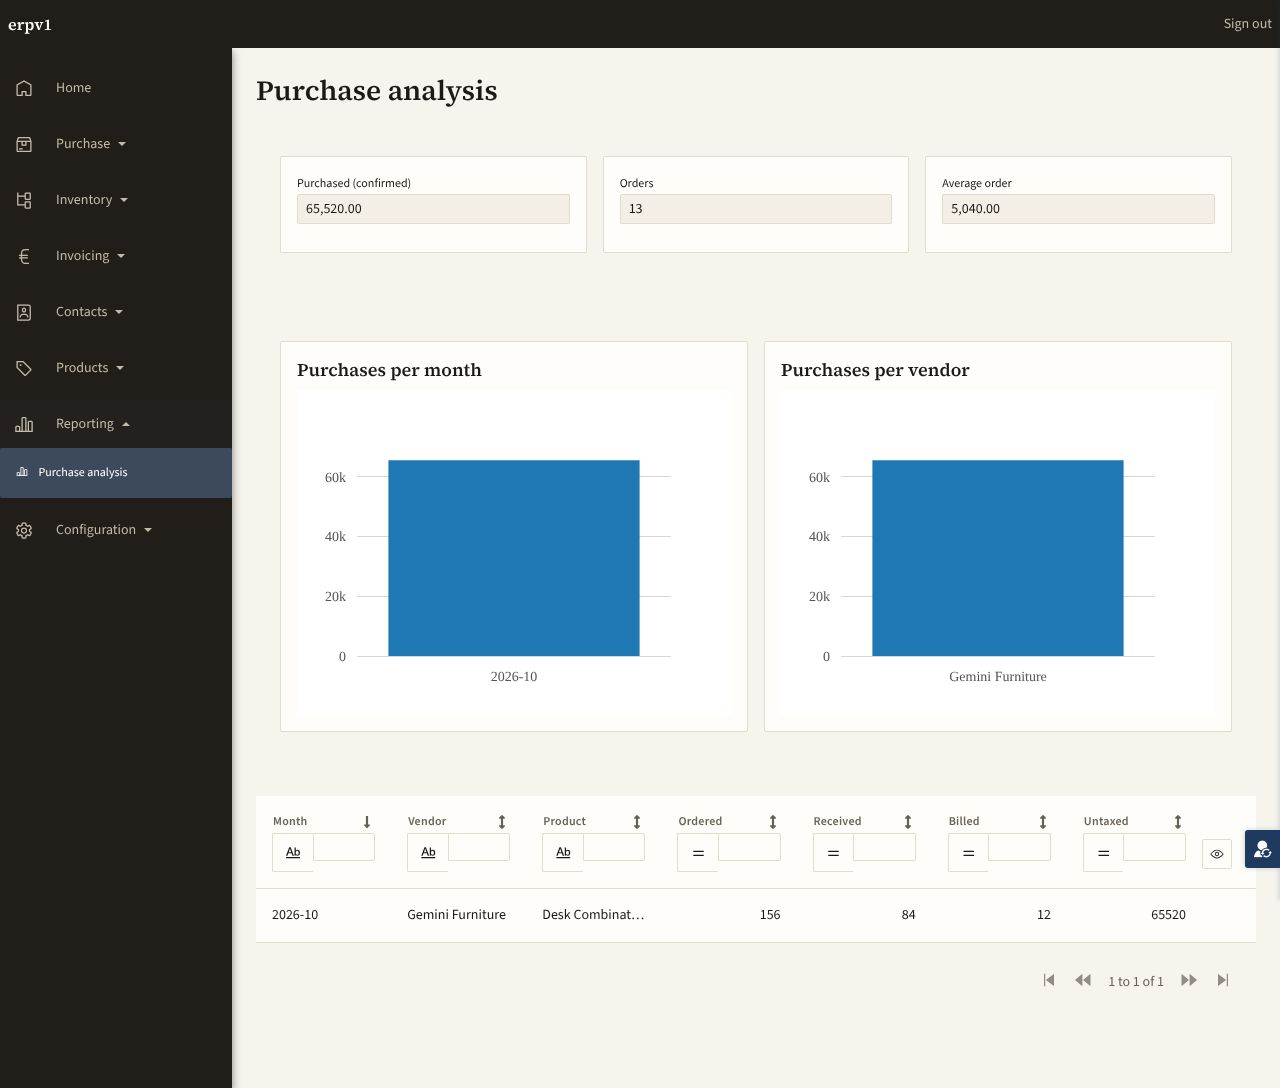
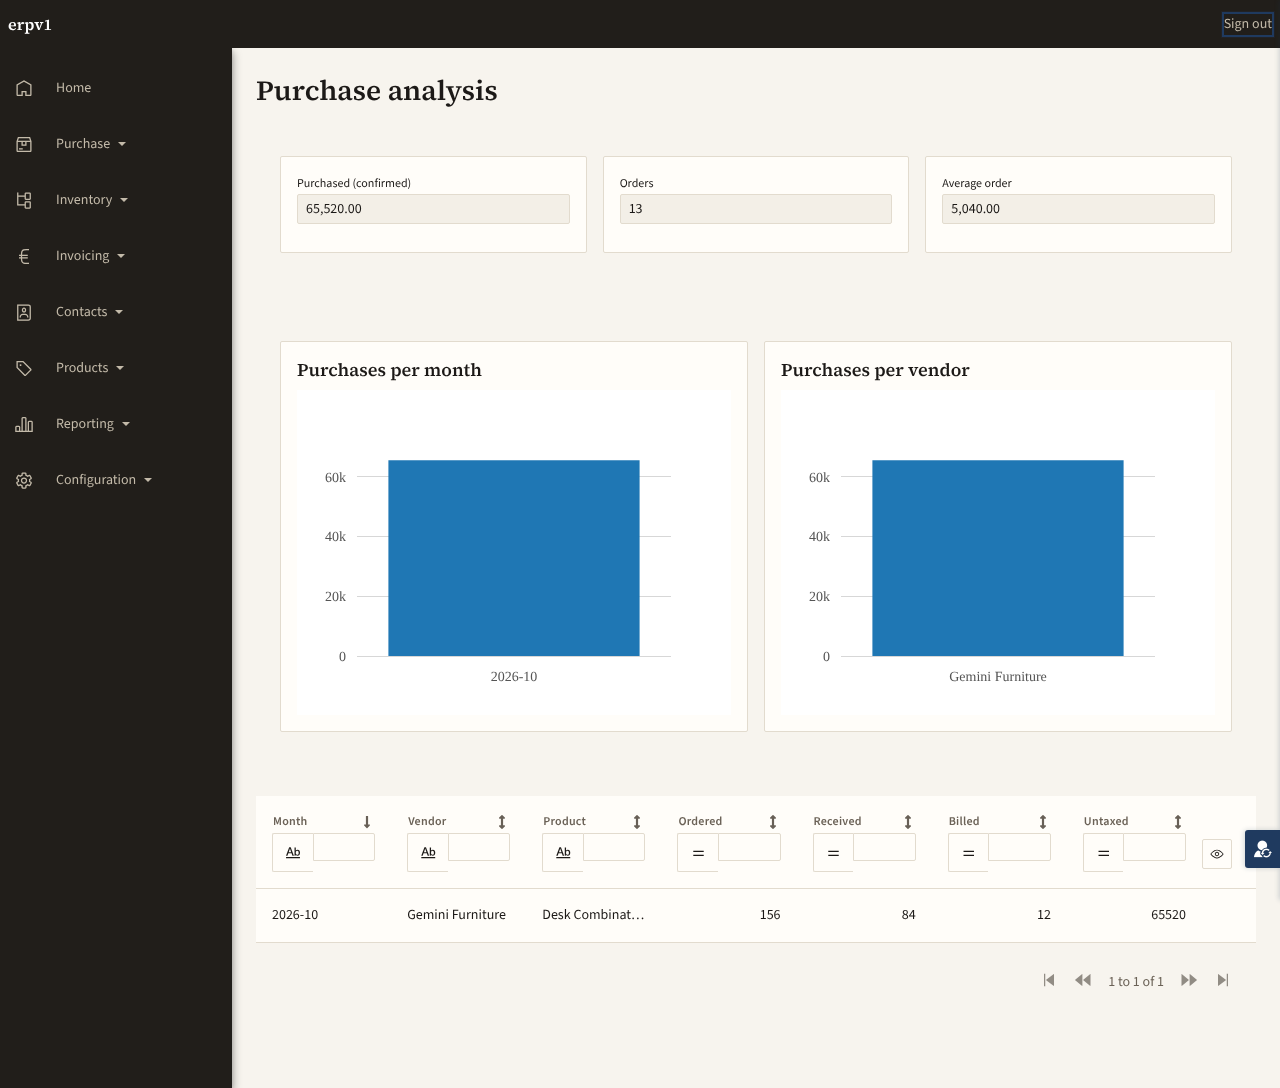
LOOK shots 2026-10-16d complete (Inventory, Invoicing, order views); look.js waits, cell clicks, url option
Claude-Session: https://claude.ai/code/session_01Ujb74J417ndGWn3bLDnpiC

Changed region(s): [[0.0, 0.4062, 0.1875, 0.5]]

diff --git a/tests/e2e/look.js b/tests/e2e/look.js
@@ -5,6 +5,7 @@
 //    { "page": "Tax_NewEdit", "user": "invoicing.manager", "menu": ["Configuration", "Taxes"], "openRow": 1 }]
 // openRow: click row N of the first data grid / list view on the menu page (opens the NewEdit page).
 // click: a widget name (mx-name-*) to click after landing (e.g. a New button).
+// url: the page's route (its Url), opened directly instead of through the menu.
 // Usage: node tests/e2e/look.js <shots.json> <outDir>
 // Prints one line per shot: page, size, title read off the page, console errors, Mendix error dialog text.
 const fs = require('fs');
@@ -21,6 +22,10 @@ async function login(page, user) {
   await page.fill('#passwordInput', PASSWORD);
   await page.click('#loginButton');
   await page.waitForSelector('.mx-page', { timeout: 30000 });
+  // a heavy home page (Invoice_Overview: four grids) still renders after .mx-page appears; navigating before it settles
+  // lands back on the home page (LOOK 2026-10-16d)
+  await page.waitForLoadState('networkidle', { timeout: 15000 }).catch(() => {});
+  await page.waitForTimeout(4000);   // the approvals-inbox home (purchase.manager) re-renders after the network settles
 }
 
 async function nav(page, menu) {
@@ -53,12 +58,15 @@ async function nav(page, menu) {
       try {
         await login(page, s.user);
         errors.length = 0; // the login page itself logs a 401 before a session exists: not page errors
-        if (s.menu) await nav(page, s.menu);
+        // url: open a page by its route (a page with Url) when the menu leaf is unreliable to click (collapsed groups)
+        if (s.url) await page.goto(BASE + '/p/' + s.url); else if (s.menu) await nav(page, s.menu);
         await page.waitForTimeout(1200);
         if (s.openRow) {
           const row = page.locator('.mx-name-gridMain [role="row"], .mx-name-gridMain .tr').nth(s.openRow);
           const lv = page.locator('.mx-listview-item').nth(s.openRow - 1);
-          if (await row.count()) await row.click(); else await lv.click();
+          // a cell, not the row's centre: a multi-select grid (Invoice_Overview) opens rows from their cells
+          const cell = row.locator('[role="gridcell"]').nth(2);
+          if (await row.count()) await ((await cell.count()) ? cell : row).click(); else await lv.click();
           await page.waitForTimeout(1500);
         }
         if (s.click) { await page.click('.mx-name-' + s.click); await page.waitForTimeout(1500); }

diff --git a/FINDINGS.md b/FINDINGS.md
@@ -174,3 +174,8 @@
 - CUSTOM002 +1: ASU_Invoicing_SeedData follows the startup-chain naming of every module's ASU_.
 - SEC010 +1 (security tier, approved by the user in chat 2026-10-16): CreateInvoice_Popup's order picker lists Sales.SalesOrder
   under Sales.User's XPath (own orders only) — the intended row-level security, read-only on that popup.
+- look.js (LOOK shots) false shots, 2026-10-16d: after login on a heavy home page (Invoice_Overview, the approvals inbox) it
+  navigated before the page settled and shot the home page under the target's name; a multi-select grid opened no row from the
+  row's centre; a collapsed sidebar group's leaf reads as visible but the click does nothing. Fixed: wait for network idle +
+  4 s, click a cell, `url` option (page route) for report pages. Verified by the h1 read off each shot. A real user's clicks
+  worked throughout (probed separately); no app defect.
